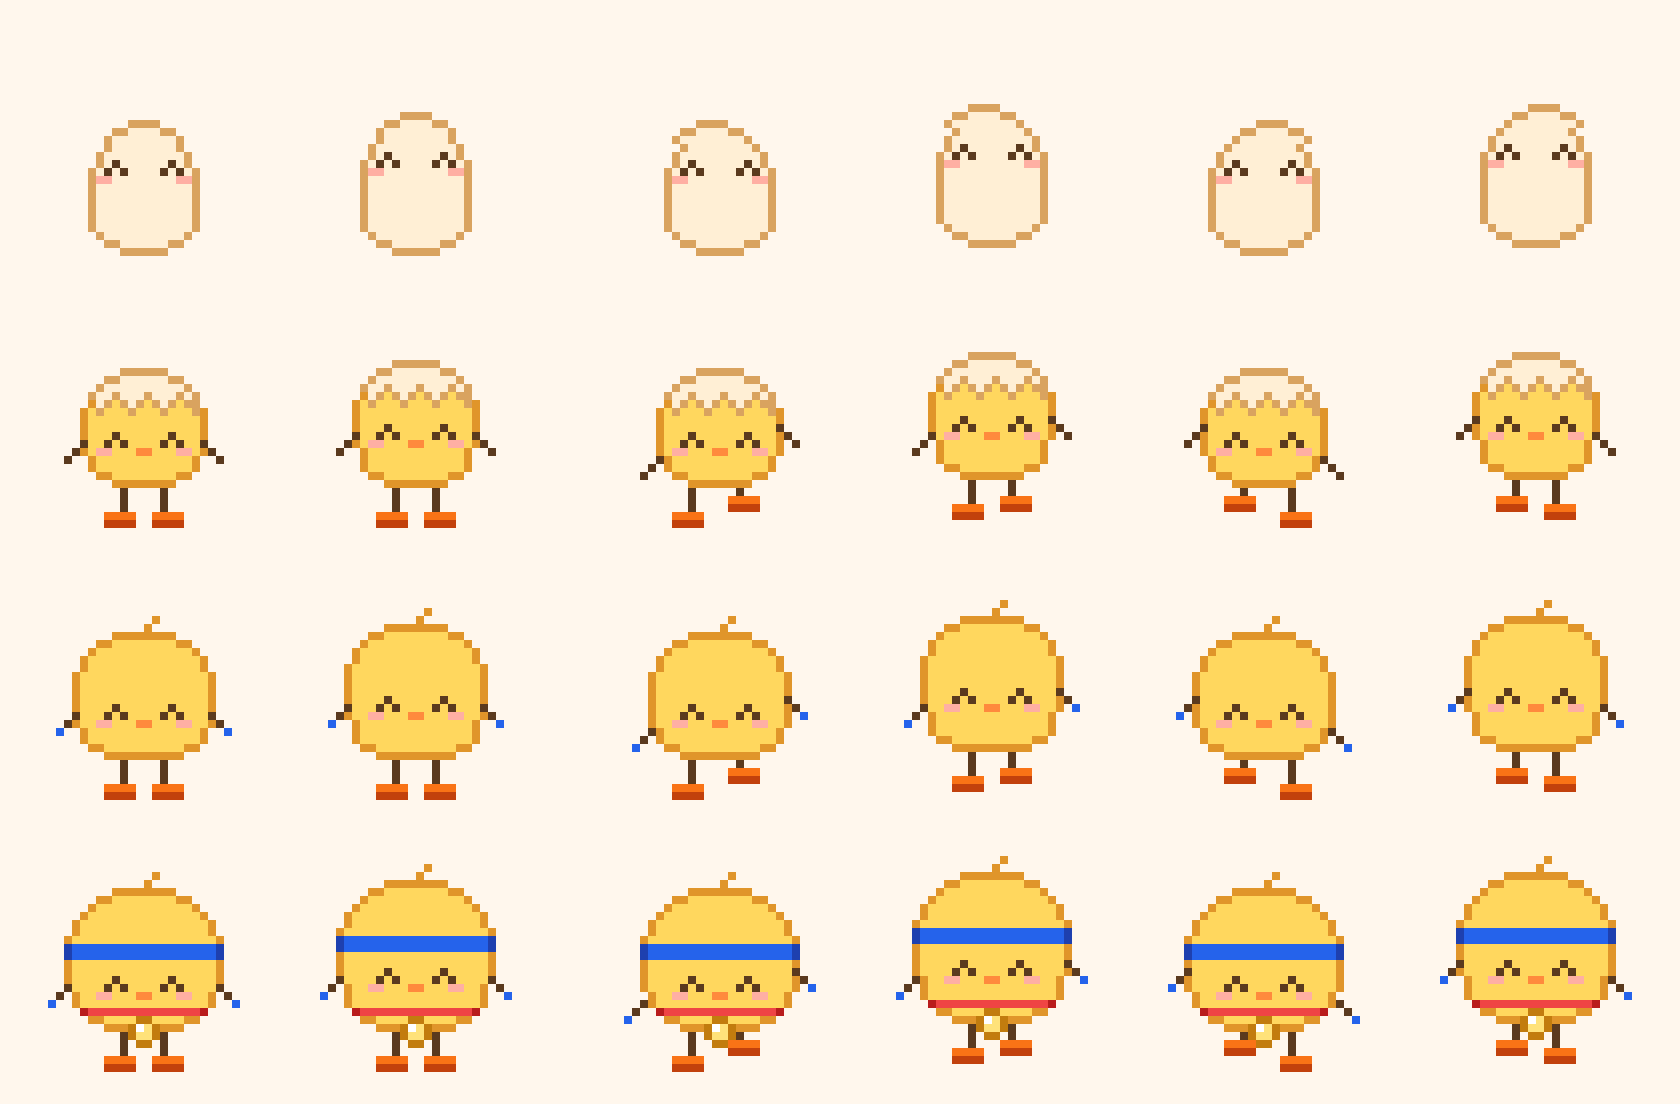
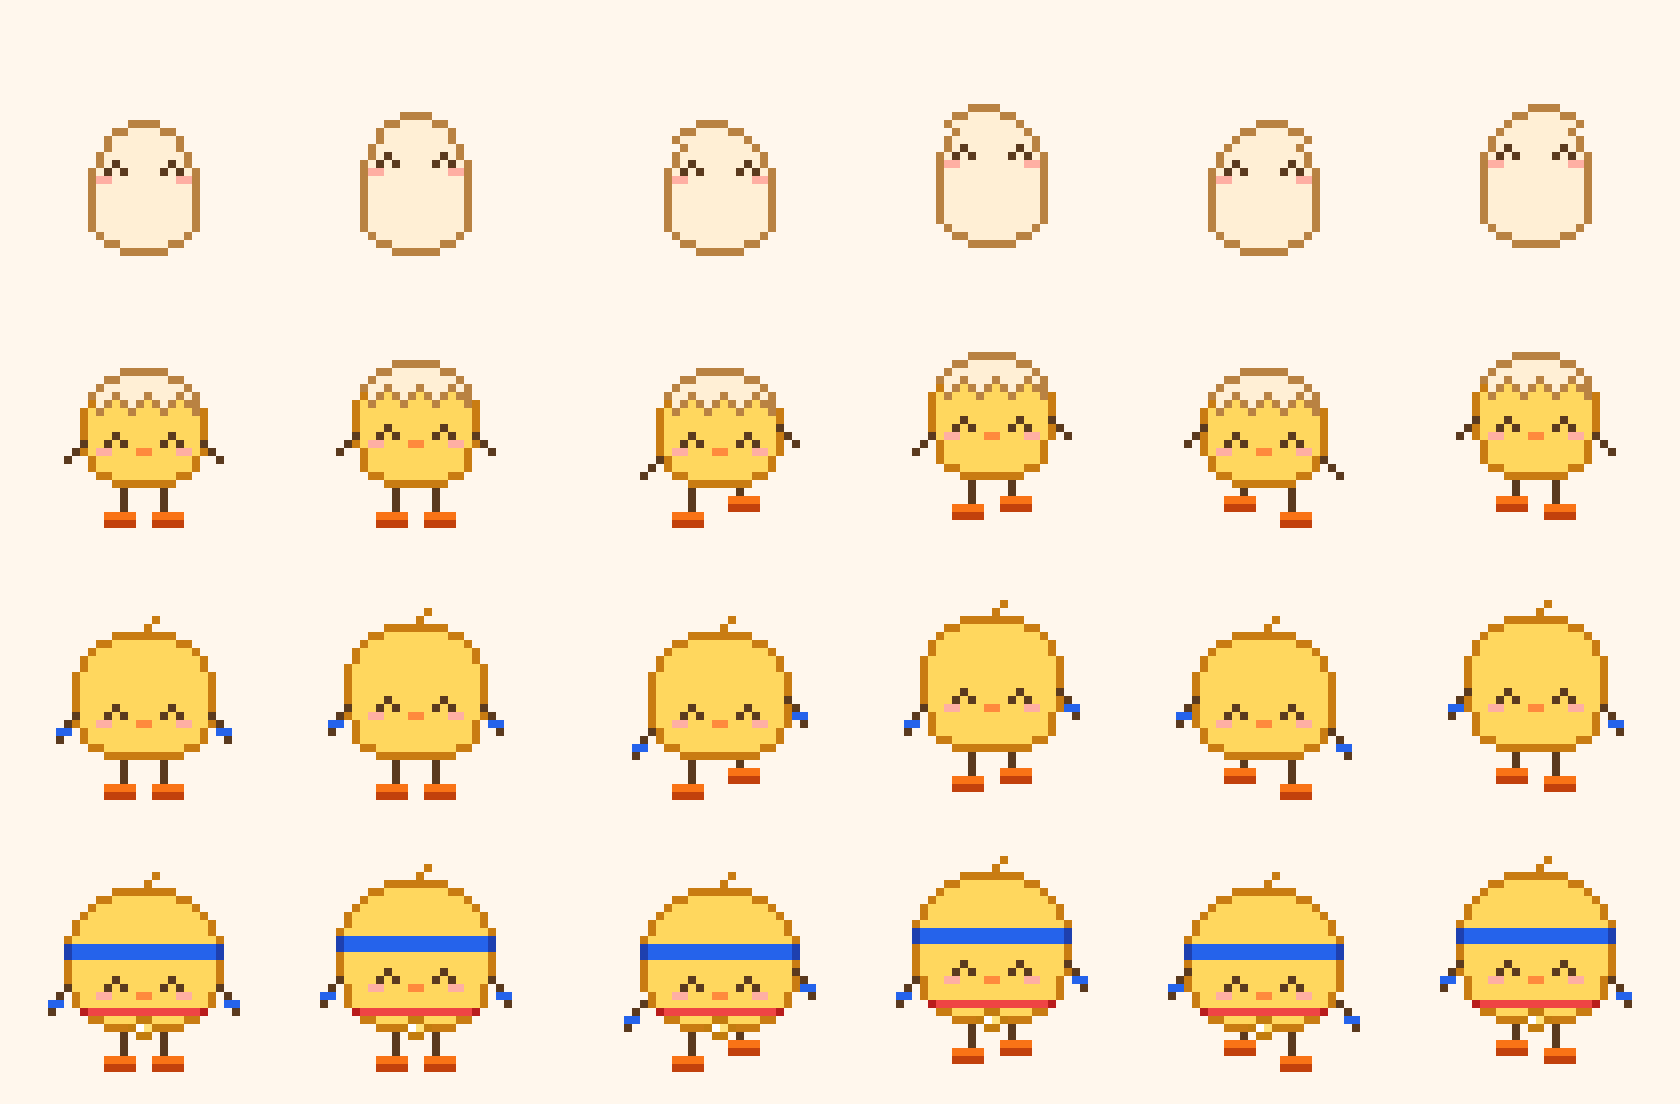
fix: 캐릭터 후보 그림 다듬기 (투표 전)
- a 4단계 메달을 목에 두른 가로 끈 + 매달린 원으로, 부리와 떨어뜨림
- b 러닝화 주황을 키우고 외곽선을 밑창만 남김
- c 손목 밴드를 팔에 붙은 2px 로, 4단계 메달을 1줄 줄여 든 발과 떨어뜨림
- c 테두리를 한두 단계 진하게(몸색 계열 유지)

diff --git a/tool/sprites/candidates/c.dart b/tool/sprites/candidates/c.dart
@@ -7,13 +7,13 @@ import '../sprite_data.dart';
 import 'candidate.dart';
 
 const Palette _palette = {
-  'o': 0xFFE0952A, // 몸 테두리 (몸색보다 어둡게)
+  'o': 0xFFC97C12, // 몸 테두리 (몸색보다 어둡게)
   'm': 0xFFFFD75E, // 병아리
   'k': 0xFF5B3A1E, // 눈·팔다리 선
   'p': 0xFFFFAFA3, // 볼
   'b': 0xFFFF8A3D, // 부리
   'y': 0xFFFFEFD5, // 알·껍데기
-  'Y': 0xFFD9A35F, // 알 테두리
+  'Y': 0xFFB98242, // 알 테두리
   'r': 0xFFF97316, // 러닝화 (primary)
   'R': 0xFFC2410C, // 러닝화 밑창
   'a': 0xFF2563EB, // 헤어밴드·손목 밴드 (accent)
@@ -33,8 +33,9 @@ const _face = FaceArt(
   },
 );
 
-// 막대 팔: 몸 옆에서 비스듬히 내려온다. 밴드는 손끝.
-List<String> _arm({bool band = false}) => ['..k', '.k.', band ? 'a..' : 'k..'];
+// 막대 팔: 몸 옆에서 비스듬히 내려온다. 밴드는 손목에 2px, 그 아래 손끝.
+List<String> _arm({bool band = false}) =>
+    band ? ['..k', '.k.', 'aa.', 'k..'] : ['..k', '.k.', 'k..'];
 
 // 막대 다리 + 납작한 러닝화(발끝이 바깥쪽).
 const List<String> _foot = ['..k.', '..k.', '..k.', 'rrrr', 'RRRR'];
@@ -181,7 +182,6 @@ final candidateC = Candidate(
           '..DddddddddddddddD..',
           '...oommmmEEmmmmoo...',
           '.....oooEweEooo.....',
-          '........EeeE........',
           '.........EE.........',
         ]),
         squashRow: 21,

diff --git a/tool/sprites/candidates/a.dart b/tool/sprites/candidates/a.dart
@@ -23,6 +23,7 @@ const Palette _palette = {
   'a': 0xFF2563EB, // 헤어밴드·손목 밴드 (accent)
   'A': 0xFF60A5FA, // 밴드 하이라이트
   'd': 0xFFDC2626, // 메달 끈
+  'D': 0xFF991B1B, // 메달 끈 그림자
   'e': 0xFFFDE047, // 메달
   'E': 0xFFA16207, // 메달 테두리
 };
@@ -182,9 +183,10 @@ final candidateA = Candidate(
           'ommmmmmmmmmmmmmmmmMo',
           'ommmmmmmbbbbmmmmmmMo',
           'ommmmmmmmBBmmmmmmMMo',
-          'oMmmmmmmdEEdmmmmmMMo',
-          '.oMMmmmmEweEmmmmMMo.',
-          '..ooooooEeeEoooooo..',
+          'oMmmmmmmmmmmmmmmmMMo',
+          '.oddddddddddddddDDo.',
+          '..ooooooEweEoooooo..',
+          '........EeeE........',
           '.........EE.........',
         ]),
         squashRow: 24,

diff --git a/tool/sprites/candidates/b.dart b/tool/sprites/candidates/b.dart
@@ -45,7 +45,7 @@ List<String> _arm({bool band = false}) => [
   '.oo',
 ];
 
-const List<String> _shoe = ['.oooo.', 'orrrwo', 'oooooo'];
+const List<String> _shoe = ['rrrrrr', 'rrrrwr', 'oooooo'];
 
 // 다마고치처럼 통통 튄다: 뜰 때 머리 2px, 팔을 번갈아 흔들고 발을 번갈아 든다.
 // 숨쉬기·달리기 모두 k ≤ 0 (눌림은 squashRow 의 메달 끈을 지운다).
